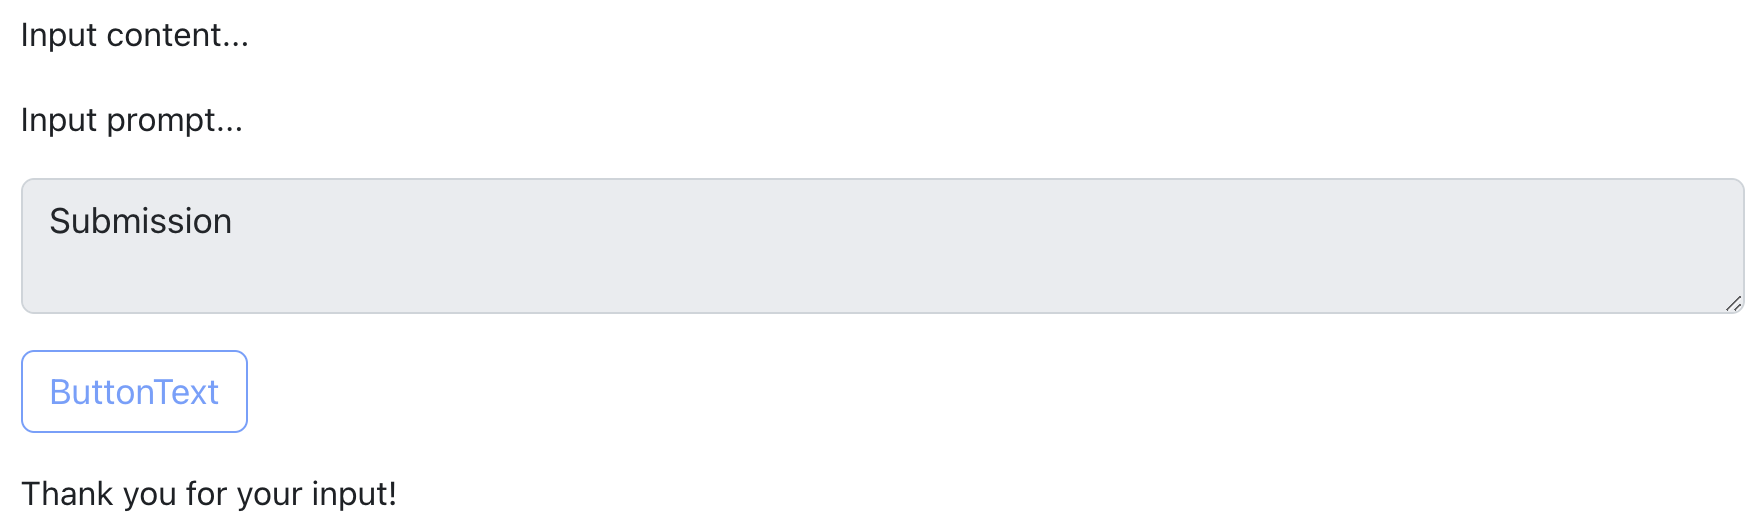
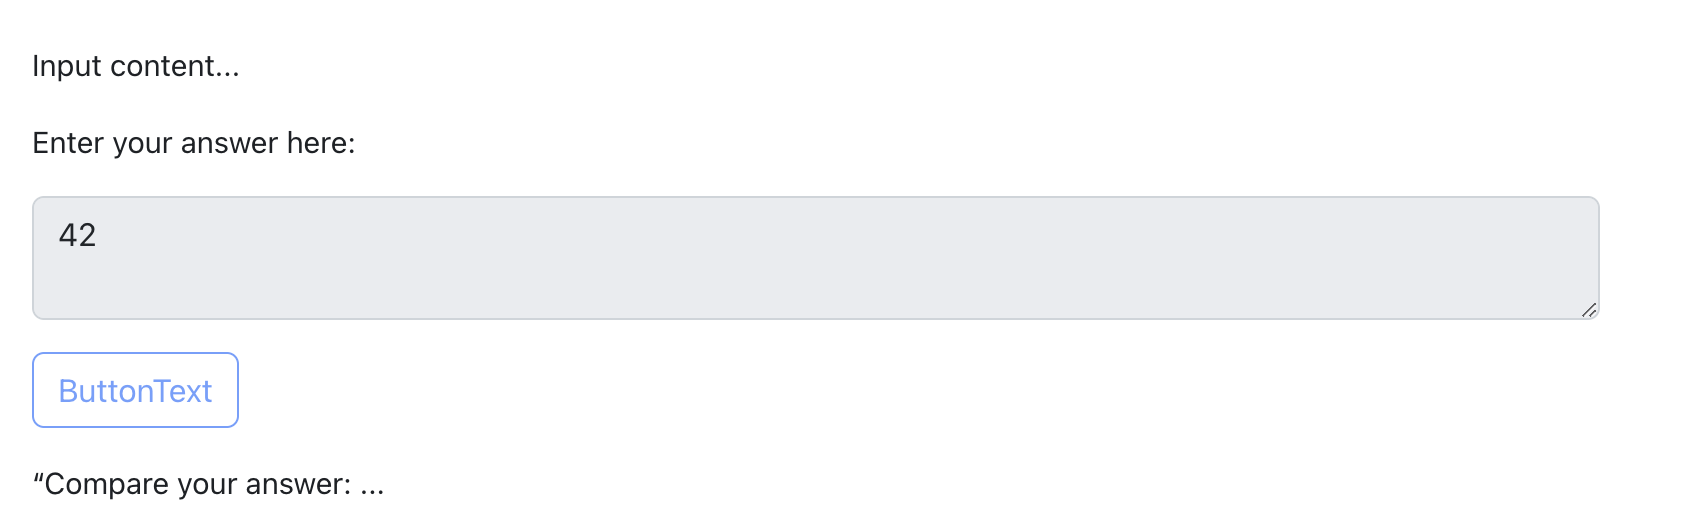
Address PR comments by Ratna

diff --git a/docs/schemas.md b/docs/schemas.md
@@ -111,6 +111,11 @@ When the button is clicked, the component will:
 * Disable the button
 * Display the acknowledgement HTML
 
+If students are entering something into a text block, be sure to follow these conventions:
+
+- Use the phrase “Enter your answer here:” to prompt students.
+- Use the phrase “Compare your answer:” at the beginning of the displayed answer in the acknowledgement HTML if it is showing a solution.
+
 #### Schema definition
 
 ```html
@@ -121,17 +126,17 @@ When the button is clicked, the component will:
   </div>
   <div class="os-raise-ib-input-prompt">
     <!-- INSERT ANY VALID HTML HERE -->
-    <p>Input prompt... </p>
+    <p>Enter your answer here: </p>
 
   </div>
   <div class="os-raise-ib-input-ack">
     <!-- INSERT ANY VALID HTML HERE -->
-    <p>Thank you for your input!</p>
+    <p>“Compare your answer: ... </p>
   </div>
 </div>
 ```
 
-The output if the `data-wait-for-event="eventnameX"` attribute is removed and the user submits an answer.
+The output if the `data-wait-for-event="eventnameY"` attribute is removed and the user submits an answer.
 
 <div style="text-align: center;">
     <img src="./static/input_block.png" width="450">
@@ -318,7 +323,7 @@ A Content tooltip block is an in-line block which allows content developers to a
 
 #### Description
 
-The Desmos graphing calculator block displays a graph and an expressions panel. Add expressions to the graph by passing a JSON array into the optional `data-equations` attribute, where each element represents a new equation or point that will be added to the expressions panel. Tables can be added to the expressions panel by adding a JSON array to the `data-tables` attribute. The `data-bottom`, `data-top`, `data-left`, and `data-right` attributes take number values and define where the graph viewport sits. If only the graph is needed, the expressions panel can be removed by passing the optional `data-disable-expressions` attribute. The size of the Desmos interactive can be set by passing an integer value into the `data-width` and `data-height` attributes. 
+The Desmos graphing calculator block displays a graph and an expressions panel. Add expressions to the graph by passing a JSON array into the optional `data-equations` attribute, where each element represents a new equation or point that will be added to the expressions panel. Tables can be added to the expressions panel by adding a JSON array to the `data-tables` attribute. The tables will show up first in the expressions panel. The `data-bottom`, `data-top`, `data-left`, and `data-right` attributes take number values and define where the graph viewport sits. If only the graph is needed, the expressions panel can be removed by passing the optional `data-disable-expressions` attribute. The size of the Desmos interactive can be set by passing an integer value into the `data-width` and `data-height` attributes. 
 
 #### Schema definition
 
@@ -329,12 +334,25 @@ The following template provides an example with a Desmos graphing calculator blo
 </div>
 ```
 
+
+The output if the `data-wait-for-event="eventnameY"` attribute is removed.
+
+<div style="text-align: center;">
+    <img src="./static/desmos-example.png" width="450">
+</div>
+
 The following template is an example with two tables
 
 ```html
 <div class="os-raise-ib-desmos-gc" data-wait-for-event="eventnameY"  data-height="500" data-width="600"  data-equations='["(1,2)","x=5"]' data-tables='[[{"variable": "x_1", "values": [1, 2]}, {"variable": "x_2", "values": [3, 5]}],[{"variable": "x_3", "values": [10, 13]},{"variable": "x_4", "values": [7, -4]}]]'  data-disable-expressions data-top="50" data-bottom="-50" data-left="-50" data-right="50" data-schema-version="1.0">
 </div>
 ```
+
+The output if the `data-wait-for-event="eventnameY"` and `data-disable-expressions` attributes are removed.
+
+<div style="text-align: center;">
+    <img src="./static/desmos-with-table.png" width="450">
+</div>
 
 Notes on schema:
 

diff --git a/docs/styles.md b/docs/styles.md
@@ -676,10 +676,46 @@ the side by side content.
 - `os-raise-justify-content-evenly` adds even spacing between content including before the first and after the last element.
 
 ```html
+<h3>os-raise-d-flex</h3>
+<div class="os-raise-d-flex">
+    <p>P1</p>
+    <h2>H2</h2>
+    <p>P2</p>
+    <img src="https://s3.amazonaws.com/im-ims-export/WTtRTaNwjScSGve5Eb3qfx5E" alt="A man dropping a ball.&nbsp;" width="100">
+</div>
+
+<h3>os-raise-align-items-center</h3>
 <div class="os-raise-d-flex os-raise-align-items-center">
-  <p>Element 1</p>
-  <p>Element 2</p>
-  <p>Element 3</p>
+    <p>P1</p>
+    <h2>H2</h2>
+    <p>p2</p>
+    <img src="https://s3.amazonaws.com/im-ims-export/WTtRTaNwjScSGve5Eb3qfx5E" alt="A man dropping a ball.&nbsp;" width="100">
+</div>
+
+<h3>os-raise-justify-content-center</h3>
+<div class="os-raise-d-flex os-raise-justify-content-center">
+    <p>P1</p>
+    <p>P2</p>
+
+
+</div>
+
+<h3>os-raise-justify-content-between</h3>
+<div class="os-raise-d-flex os-raise-justify-content-between">
+    <p>P1</p>
+    <p>P2</p>
+    <p>P3</p>
+    <h3>H3</h3>
+
+</div>
+
+<h3>os-raise-justify-content-evenly</h3>
+<div class="os-raise-d-flex os-raise-justify-content-evenly">
+    <p>P1</p>
+    <p>P2</p>
+    <h3>h3</h3>
+    <p>P2</p>
+
 </div>
 ```
 
